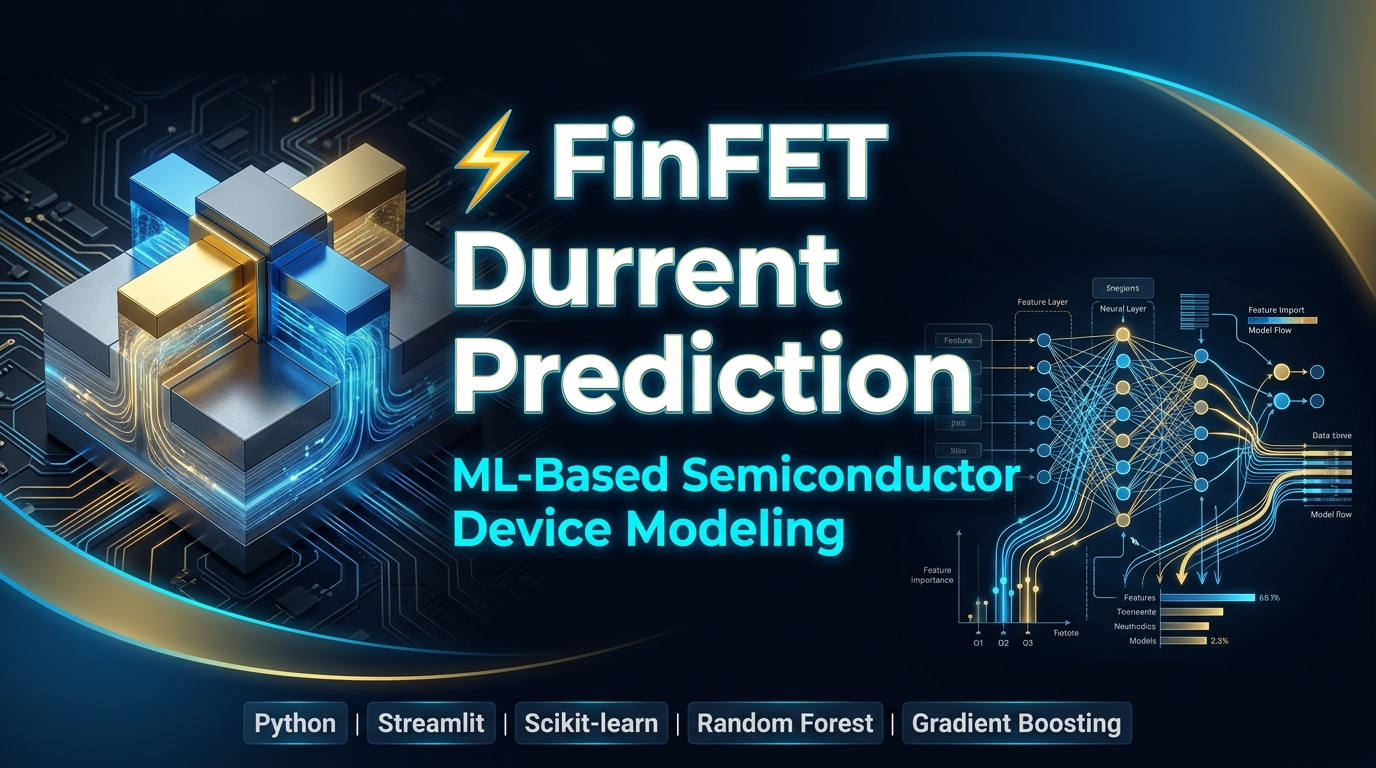
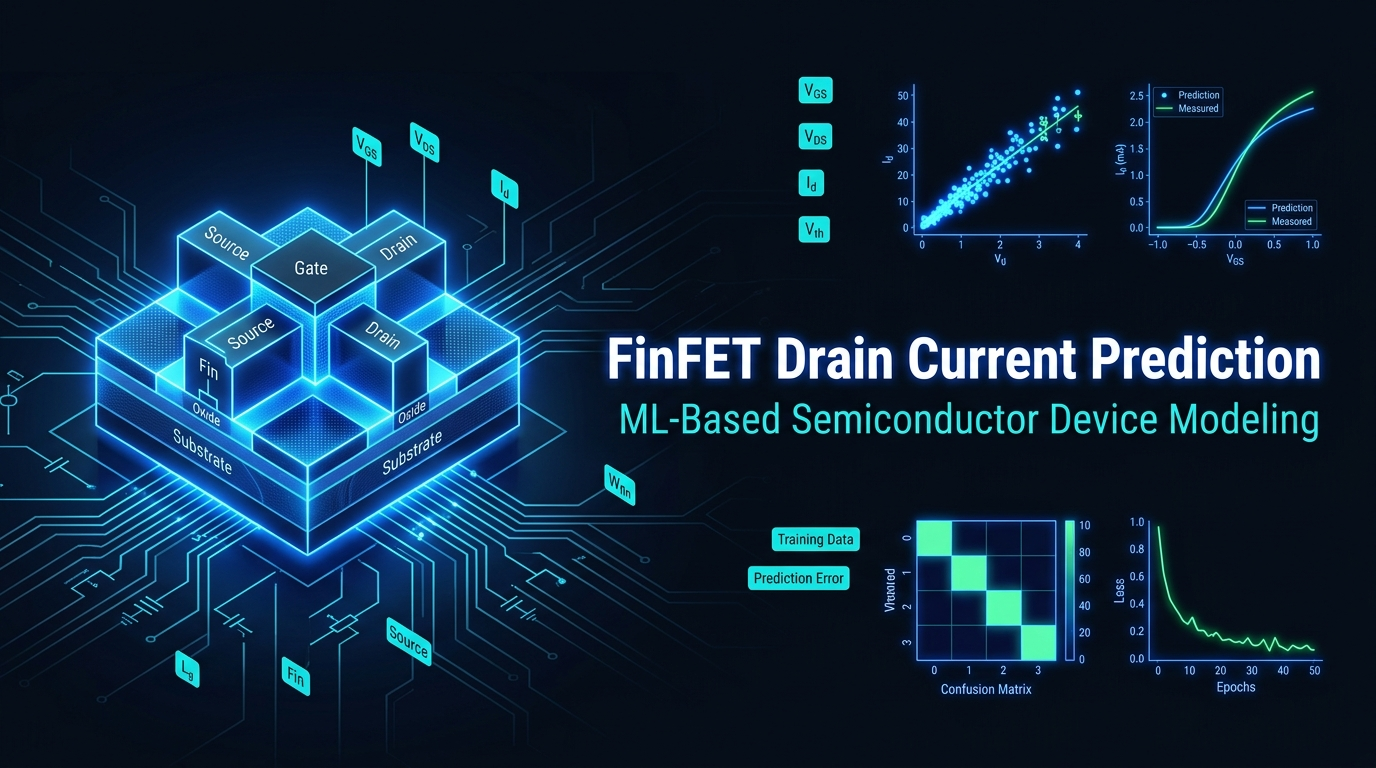
docs: add README.md with project overview, setup guide, and physics background

diff --git a/README.md b/README.md
@@ -1,0 +1,180 @@
+# ⚡ FinFET Drain Current Prediction
+
+> **Academic Demonstration Prototype** — Machine learning–based prediction of FinFET drain current using physically-inspired synthetic data.
+
+---
+
+## 📖 Overview
+
+This project demonstrates how machine learning can model the electrical behavior of **FinFET (Fin Field-Effect Transistor)** devices — the core building block of modern nanoscale CMOS technology (7 nm, 5 nm, 3 nm nodes and beyond).
+
+A synthetic dataset is generated using simplified FinFET physics equations, three regression models are trained and compared, and an interactive **Streamlit dashboard** lets users predict drain current in real time by adjusting device and bias parameters.
+
+> ⚠ **Disclaimer**: The dataset is **synthetic and physically-inspired**, not derived from TCAD simulations or real silicon measurements. This project is intended for educational and demonstration purposes only.
+
+---
+
+## 🗂 Project Structure
+
+```
+project 1/
+├── generate_dataset.py   # Generates synthetic FinFET dataset (dataset.csv)
+├── train_model.py        # Trains & evaluates ML models, saves model.pkl
+├── app.py                # Streamlit interactive dashboard
+├── requirements.txt      # Python dependencies
+├── dataset.csv           # Generated synthetic dataset (6 000 samples)
+├── model.pkl             # Saved best-performing model pipeline
+├── model_metrics.json    # Training metrics & predictions for all models
+└── docs/                 # Additional documentation (if any)
+```
+
+---
+
+## 🔬 Physics Background
+
+FinFETs use a 3D fin-shaped channel that allows the gate to wrap around three sides, providing superior electrostatic control compared to planar MOSFETs. The key device parameters modelled here are:
+
+| Parameter | Symbol | Range | Unit |
+|-----------|--------|-------|------|
+| Gate length | Lg | 7 – 50 | nm |
+| Fin width | Wfin | 4 – 15 | nm |
+| Fin height | Hfin | 20 – 60 | nm |
+| Oxide thickness | Tox | 0.8 – 3 | nm |
+| Threshold voltage | Vth | 0.2 – 0.5 | V |
+| Gate-source voltage | VGS | 0 – 1.2 | V |
+| Drain-source voltage | VDS | 0 – 1.0 | V |
+| Temperature | Temp | 200 – 400 | K |
+
+**Target**: Drain current **Id** (Amperes)
+
+The physics model captures:
+- **Above-threshold current** — long-channel MOSFET model with effective width (`Weff = Wfin + 2·Hfin`)
+- **Sub-threshold leakage** — exponential dependence on overdrive voltage
+- **Short-channel effects (SCE)** — exponential boost for small gate lengths
+- **Temperature-dependent mobility** — `μ ∝ (T/T₀)⁻¹·⁵`
+- **Smooth transition** — sigmoid blending between above/sub-threshold regimes
+- **Realistic noise** — ±0.5% Gaussian noise
+
+---
+
+## 🤖 Machine Learning Models
+
+Three regression models are trained and compared using an 80/20 train-test split:
+
+| Model | Description |
+|-------|-------------|
+| **Linear Regression** | Ridge regression (α = 1.0) with StandardScaler |
+| **Random Forest** | 200 trees, max depth 20, all CPU cores |
+| **Gradient Boosting** | 300 estimators, depth 6, learning rate 0.08 |
+
+The best model (by test R²) is automatically selected and saved as `model.pkl`. Gradient Boosting typically achieves the highest accuracy.
+
+**Metrics reported**: R² (train & test), MAE, RMSE
+
+---
+
+## 🚀 Getting Started
+
+### 1. Clone / download the project
+
+```bash
+git clone <repo-url>
+cd "project 1"
+```
+
+### 2. Install dependencies
+
+```bash
+pip install -r requirements.txt
+```
+
+### 3. Generate the dataset
+
+```bash
+python generate_dataset.py
+```
+
+This creates `dataset.csv` with 6 000 synthetic FinFET samples.
+
+### 4. Train the models
+
+```bash
+python train_model.py
+```
+
+This trains all three models, prints a comparison table, and saves:
+- `model.pkl` — the best model pipeline
+- `model_metrics.json` — detailed metrics for the Streamlit dashboard
+
+### 5. Launch the dashboard
+
+```bash
+streamlit run app.py
+```
+
+Open your browser at **http://localhost:8501**
+
+---
+
+## 📊 Dashboard Features
+
+The Streamlit dashboard (`app.py`) provides:
+
+- **Real-time prediction** — adjust device and bias sliders to instantly predict Id
+- **Model comparison** — R², MAE, and RMSE for all three trained models
+- **Feature importance** — Random Forest importances visualized with Plotly
+- **Scatter plots** — Predicted vs. actual Id for each model
+- **Dataset explorer** — interactive inspection of the generated dataset
+- Dark-themed, premium UI with GitHub-style color palette
+
+---
+
+## 📦 Dependencies
+
+| Package | Version |
+|---------|---------|
+| streamlit | ≥ 1.40.0 |
+| pandas | ≥ 1.5.0 |
+| numpy | ≥ 1.23.0 |
+| scikit-learn | ≥ 1.2.0 |
+| plotly | ≥ 5.15.0 |
+| joblib | ≥ 1.2.0 |
+
+Install all at once:
+```bash
+pip install -r requirements.txt
+```
+
+---
+
+## 🧪 Reproducibility
+
+- Random seed `42` is used throughout (`numpy`, `scikit-learn`) for fully reproducible results.
+- Re-running `generate_dataset.py` always produces the same dataset.
+- Re-running `train_model.py` always produces the same model weights.
+
+---
+
+## 📝 Limitations & Future Work
+
+- **Synthetic data only** — results do not reflect real silicon or TCAD accuracy.
+- **Simplified physics** — no quantum confinement, ballistic transport, or interface traps.
+- **Potential improvements**:
+  - Replace synthetic data with TCAD-simulated (e.g., Sentaurus) or measured data
+  - Add deep learning models (MLP, Graph Neural Networks for device structures)
+  - Extend to multi-finger / multi-fin configurations
+  - Include variability / Monte Carlo analysis
+
+---
+
+## 👤 Author
+
+**Mohit Roscen**
+Academic Prototype — FinFET ML Prediction
+2026
+
+---
+
+## 📄 License
+
+This project is for academic and educational use only. No warranty is provided regarding physical accuracy.
